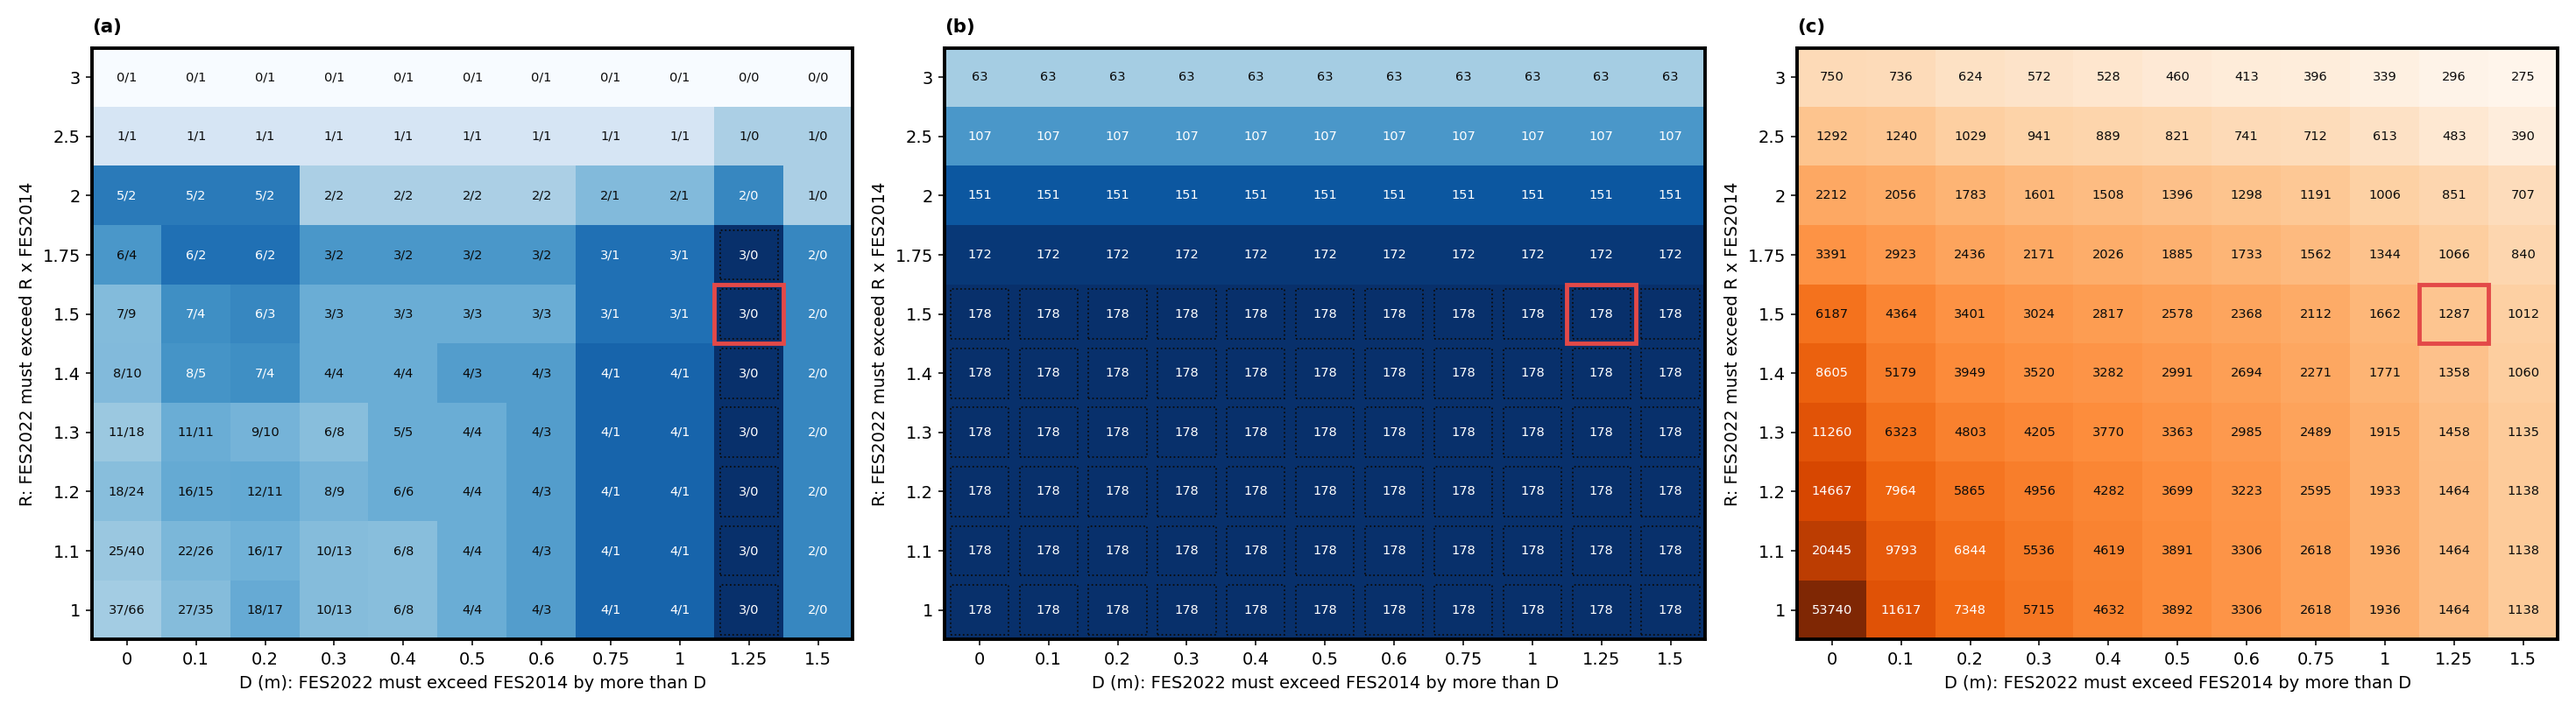
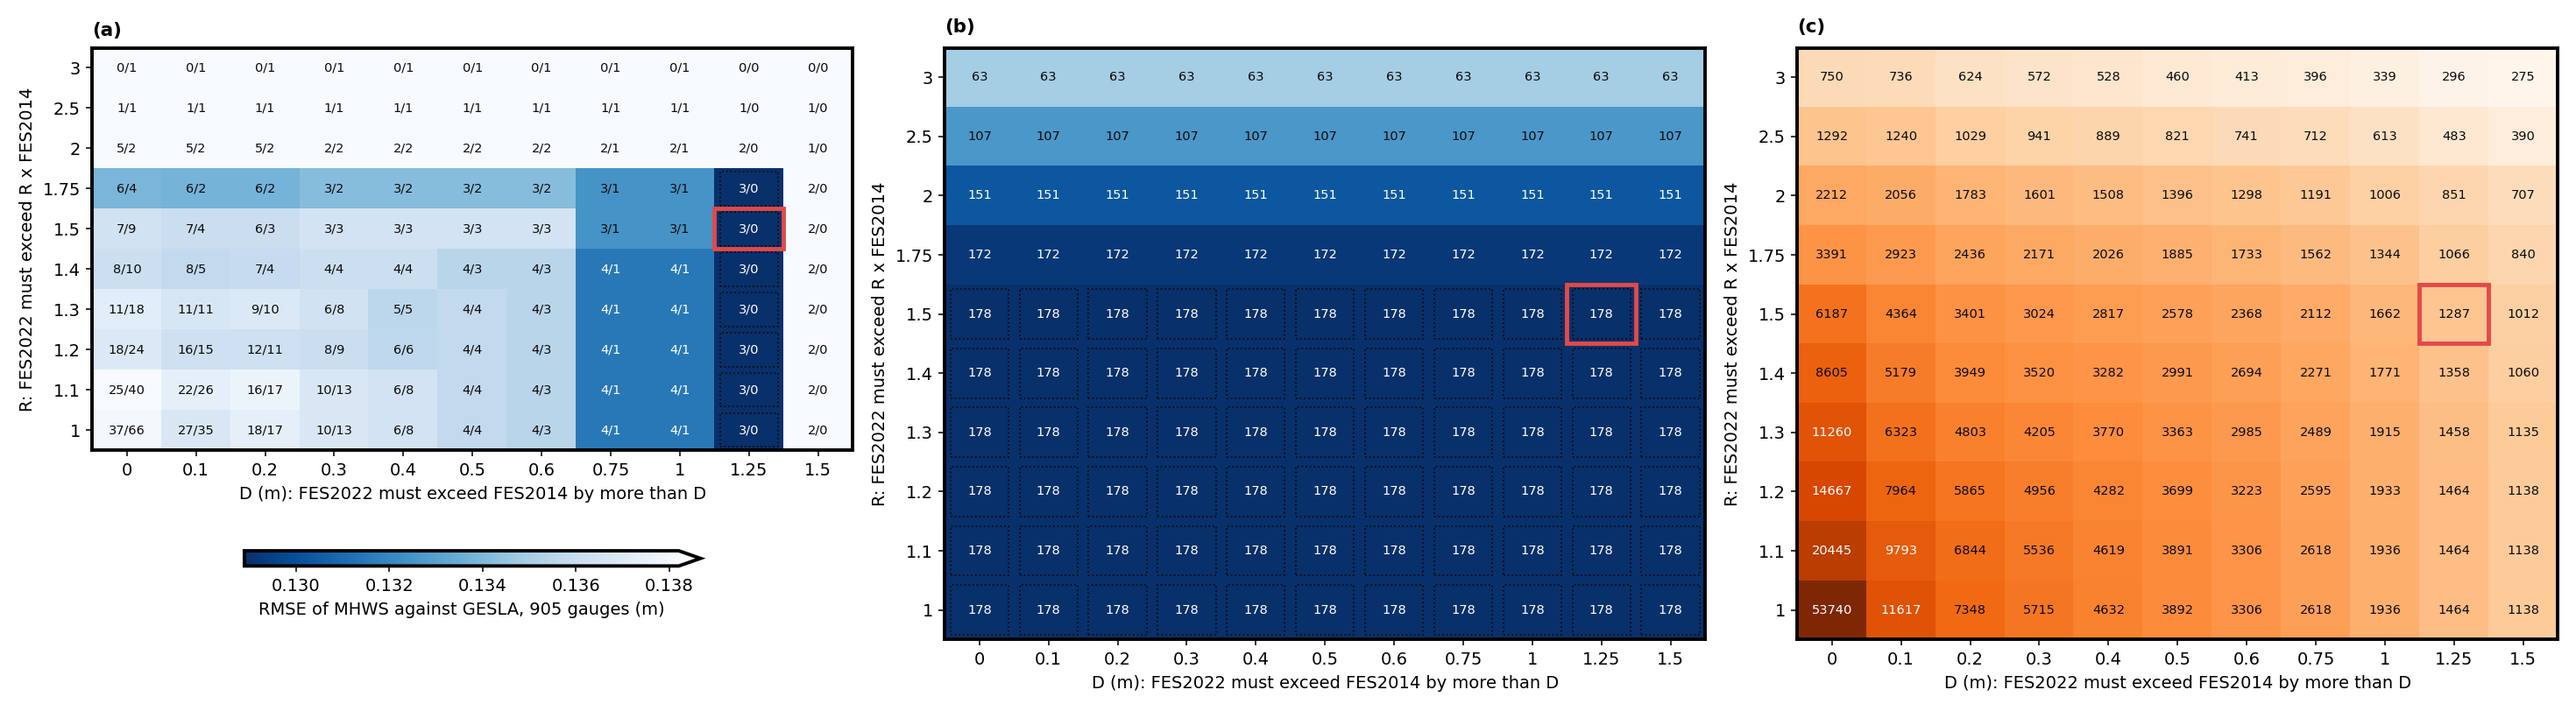
fig06: colour (a) by the MHWS RMSE at the gauges with the rule applied

Changed region(s): [[0.0, 0.0924, 0.3405, 0.9852], [0.031, 0.0308, 0.0619, 0.0616]]

diff --git a/input_analysis/make_boundary_forcing_figures.py b/input_analysis/make_boundary_forcing_figures.py
@@ -22,7 +22,7 @@ import cartopy.feature as cfeature  # noqa: E402
 import matplotlib.pyplot as plt  # noqa: E402
 import numpy as np  # noqa: E402
 import pandas as pd  # noqa: E402
-from matplotlib.colors import BoundaryNorm, LogNorm, Normalize, TwoSlopeNorm  # noqa: E402
+from matplotlib.colors import LogNorm, Normalize  # noqa: E402
 
 REPO = Path(__file__).resolve().parents[1]
 sys.path.insert(0, str(REPO / "src"))
@@ -738,11 +738,8 @@ def _heat(ax, grid: pd.DataFrame, col: str, text, cmap, norm, mark=None) -> obje
     for i, r in enumerate(ratios):
         for j, d in enumerate(diffs):
             row = grid[(grid.ratio == r) & (grid.diff_m == d)].iloc[0]
-            level = float(norm(m[i, j]))
-            if isinstance(norm, BoundaryNorm):
-                level /= max(norm.Ncmap - 1, 1)
-            diverging = isinstance(norm, TwoSlopeNorm) or cmap.name in ("RdBu", "RdBu_r")
-            dark = abs(level - 0.5) > 0.3 if diverging else level > 0.6
+            rgb = im.cmap(im.norm(m[i, j]))[:3] if np.isfinite(m[i, j]) else (1.0, 1.0, 1.0)
+            dark = 0.299 * rgb[0] + 0.587 * rgb[1] + 0.114 * rgb[2] < 0.5
             ax.text(j, i, text(row), ha="center", va="center", fontsize=7.5, color="white" if dark else INK)
             if mark is not None and mark(row):
                 ax.add_patch(plt.Rectangle((j - 0.42, i - 0.42), 0.84, 0.84, fill=False, edgecolor=INK,
@@ -758,15 +755,19 @@ def _heat(ax, grid: pd.DataFrame, col: str, text, cmap, norm, mark=None) -> obje
 def fig06_rule_sensitivity(out: Path, dest: Path) -> None:
     grid = pd.read_csv(out / "analysis" / "atlas_rule_grid.csv")
     bands = pd.read_csv(out / "analysis" / "atlas_rule_bands.csv", index_col=0)
-    scored = grid.gauges_fixed + grid.gauges_harmed
     best = int(grid.loc[grid.gauges_harmed == 0, "gauges_fixed"].max())
-    precision = (grid.gauges_fixed / scored).where(scored > 0, 0.0)
-    grid["score"] = precision * (grid.gauges_fixed / best).clip(upper=1)
     known = int(grid.known_total.iloc[0])
     grid["known_share"] = grid.known_caught / known
     fig, axes = plt.subplots(1, 3, figsize=(21, 5.8))
-    _heat(axes[0], grid, "score", lambda r: f"{int(r.gauges_fixed)}/{int(r.gauges_harmed)}",
-          plt.get_cmap("Blues"), Normalize(0, 1), mark=lambda r: r.gauges_harmed == 0 and r.gauges_fixed == best)
+    g = pd.read_csv(out / "analysis" / "atlas_gauges.csv", index_col=0).dropna(
+        subset=["gesla_harm__mhws_m", "fes_gauge__mhws_m", "fes2014__mhws_m"])
+    rmse22 = float(np.sqrt(((g.fes_gauge__mhws_m - g.gesla_harm__mhws_m) ** 2).mean()))
+    rmse14 = float(np.sqrt(((g.fes2014__mhws_m - g.gesla_harm__mhws_m) ** 2).mean()))
+    im = _heat(axes[0], grid, "hybrid_rmse_m", lambda r: f"{int(r.gauges_fixed)}/{int(r.gauges_harmed)}",
+               plt.get_cmap("Blues_r"), Normalize(float(grid.hybrid_rmse_m.min()),
+                                                  float(grid.loc[grid.ratio <= 1.75, "hybrid_rmse_m"].max())), mark=lambda r: r.gauges_harmed == 0 and r.gauges_fixed == best)
+    cb = fig.colorbar(im, ax=axes[0], orientation="horizontal", pad=0.17, shrink=0.6, aspect=30, extend="max")
+    cb.set_label("RMSE of MHWS against GESLA, 905 gauges (m)")
     _heat(axes[1], grid, "known_share", lambda r: f"{int(r.known_caught)}", plt.get_cmap("Blues"), Normalize(0, 1),
           mark=lambda r: r.known_caught == known)
     _heat(axes[2], grid, "nodes_replaced", lambda r: f"{int(r.nodes_replaced)}", plt.get_cmap("Oranges"),
@@ -792,12 +793,15 @@ def fig06_rule_sensitivity(out: Path, dest: Path) -> None:
         FES2022 and FES2014. At every gauge where the rule would switch to FES2014, the switch is
         scored against the gauge's own MHWS: an improvement if FES2014 is closer to the gauge than
         FES2022 by more than 5 cm, a worsening if it is further by more than 5 cm. Cell text:
-        improvements / worsenings. Colour: precision x coverage, from white (0) to dark blue (1).
-        Precision is improvements / (improvements + worsenings), the share of switches that help;
-        coverage is improvements / {best}, capped at 1, the share of the {best} gauges with a gross
-        FES2022 error that the pair fixes. Only a pair that fixes all of them without making any
-        gauge worse reaches 1: 3/0 gives 1.0, 2/0 0.67, 1/0 0.33, 3/1 0.75. Cells where the rule
-        changes no gauge by more than 5 cm either way are white. The gauges with a real FES2022 error (Skagway, Juneau, Port
+        improvements / worsenings. Colour: the root-mean-square error (RMSE) of MHWS against GESLA
+        over all 905 gauges when the candidate rule is applied, i.e. FES2014 where it fires and
+        FES2022 elsewhere; darker = lower error. The scale spans the pairs with R <= 1.75
+        ({grid.hybrid_rmse_m.min():.3f}-{grid.loc[grid.ratio <= 1.75, "hybrid_rmse_m"].max():.3f} m);
+        worse pairs (R >= 2, up to {grid.hybrid_rmse_m.max():.3f} m) are white. RMSE squares the
+        errors, so it is dominated by the few gross ones: FES2022 alone is {rmse22:.3f} m mostly
+        because of Skagway (error 4.7 m), and FES2014 alone would be {rmse14:.3f} m although its mean
+        absolute error is larger than FES2022's (fig01). It therefore measures exactly what the
+        rule is for: removing gross errors without adding new ones. The gauges with a real FES2022 error (Skagway, Juneau, Port
         Alberni) are the improvements to be had; Trondheim, where FES2014 is wrong, is the main
         worsening to avoid. Dotted squares: pairs with no worsening and the most improvements
         ({best}).
@@ -816,8 +820,8 @@ def fig06_rule_sensitivity(out: Path, dest: Path) -> None:
         that switch more nodes than needed change FES2022 values on coasts where no evidence says
         it is wrong.
 
-        Reading off the adopted values: (a) leaves the dotted pairs in the column D = 1.25 m (no
-        worsening, all {best} improvements; at D <= 1 m Trondheim is switched wrongly, at D = 1.5 m
+        Reading off the adopted values: (a) leaves the dotted pairs in the column D = 1.25 m (lowest
+        RMSE, {adopted.hybrid_rmse_m:.3f} m; no worsening, all {best} improvements; at D <= 1 m Trondheim is switched wrongly, at D = 1.5 m
         Port Alberni is no longer caught). (b) leaves R <= 1.5 (higher R misses artefacts). The
         row R = 1 switches the ratio condition off, so only D decides: from R = 1 to R = 1.5 panels
         (a) and (b) are identical, i.e. the ratio changes nothing at the gauges or at the known

diff --git a/boundary_test/atlas_rule_sensitivity.py b/boundary_test/atlas_rule_sensitivity.py
@@ -7,7 +7,8 @@ of evidence:
 
 - Gauges (all sites with GESLA, FES2022 and FES2014 MHWS; `atlas_gauges.csv`): the rule is
   evaluated on the two atlases' MHWS at the gauge. A firing is a fix when FES2014 is closer to
-  the gauge MHWS by more than MARGIN_M, harm when it is further by more than MARGIN_M.
+  the gauge MHWS by more than MARGIN_M, harm when it is further by more than MARGIN_M; the MAE and
+  RMSE of MHWS against GESLA over all of them, with FES2014 used where the rule fires.
 - Known artefacts (`atlas_node_mhws.parquet`): nodes in the four basin boxes whose FES2022 MHWS
   exceeds IMPLAUSIBLE_FACTOR x the largest observed MHWS there (half the record or upper spring
   range, INPUT_ANALYSIS §3). The set is defined without FES2014, so detection is not circular.
@@ -78,7 +79,8 @@ def grid_table(g: pd.DataFrame, nodes: pd.DataFrame, known: pd.Series) -> pd.Dat
             rows.append({"ratio": r, "diff_m": d, "gauges_fired": int(fire.sum()),
                          "gauges_fixed": int((fire & (g.e14 < g.e22 - MARGIN_M)).sum()),
                          "gauges_harmed": int((fire & (g.e14 > g.e22 + MARGIN_M)).sum()),
-                         "hybrid_mae_m": float(hybrid.mean()), "nodes_replaced": int(node_fire.sum()),
+                         "hybrid_mae_m": float(hybrid.mean()), "hybrid_rmse_m": float(np.sqrt((hybrid ** 2).mean())),
+                         "nodes_replaced": int(node_fire.sum()),
                          "known_caught": int((node_fire & known).sum()), "known_total": int(known.sum())})
     return pd.DataFrame(rows)
 
